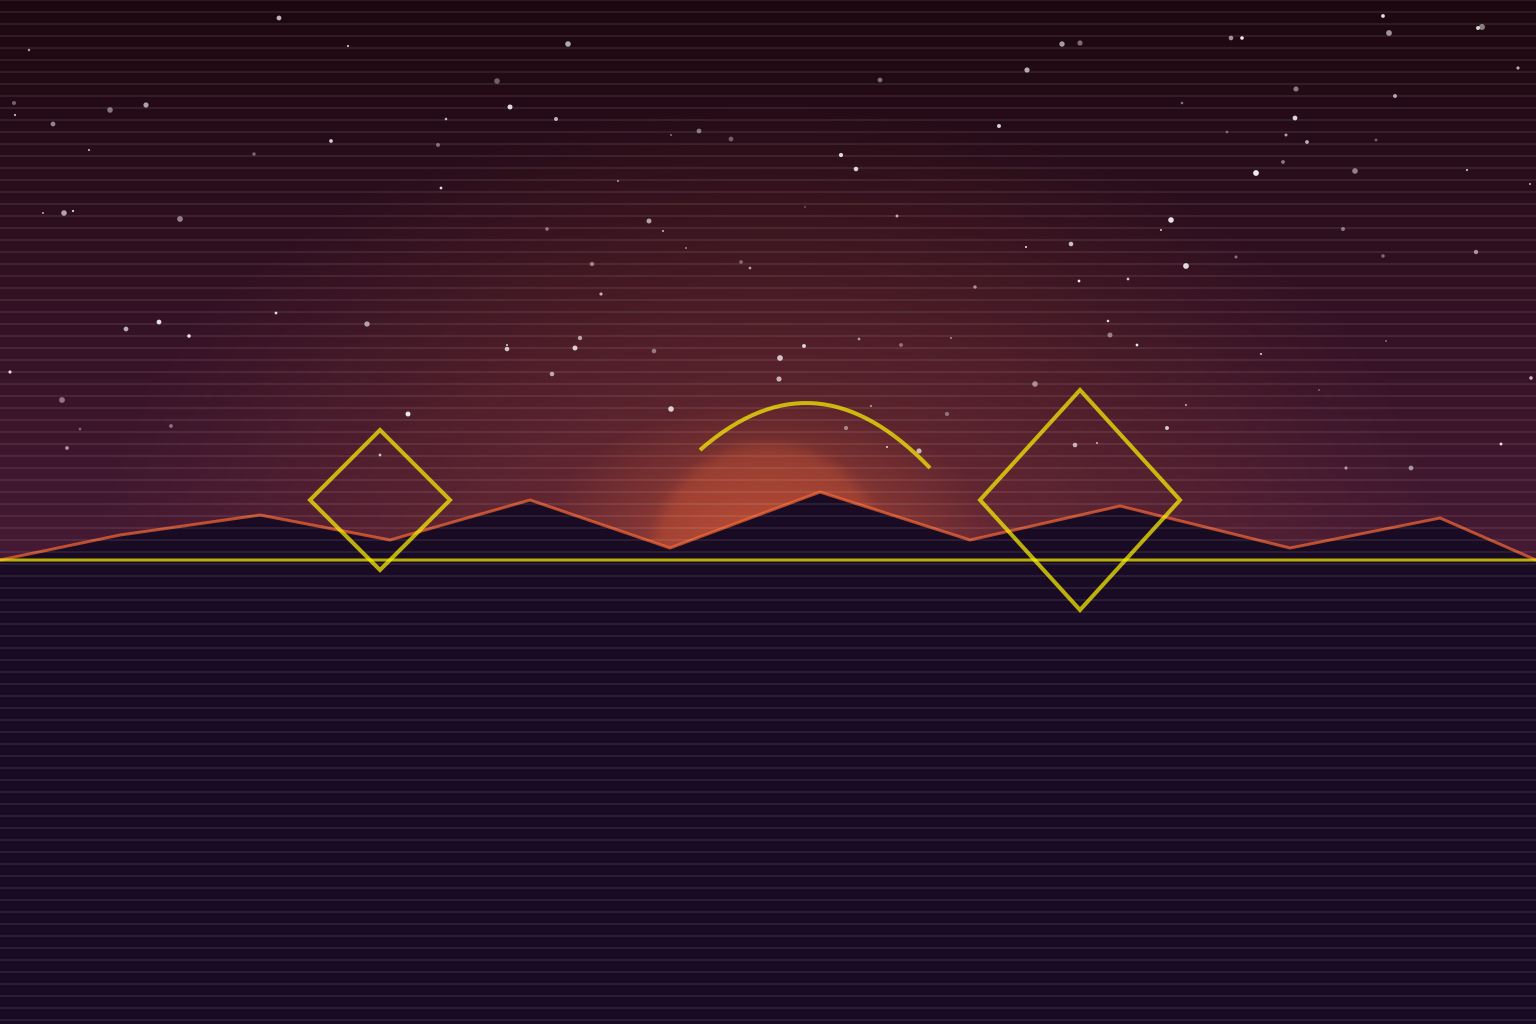
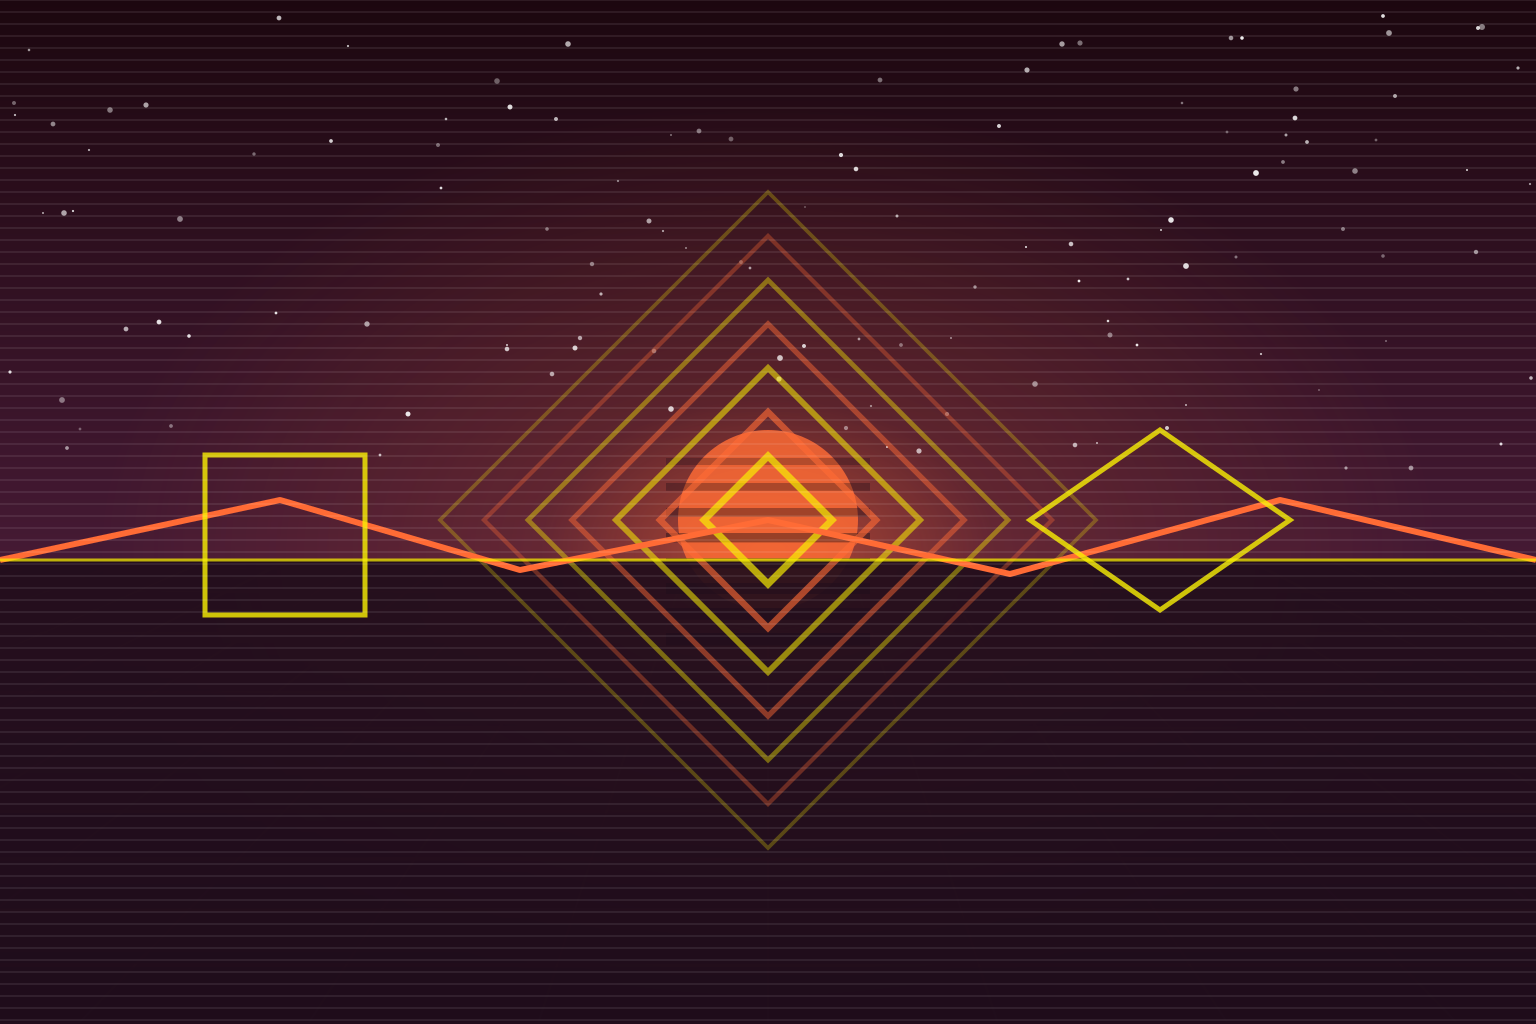
Polish world and puzzle object art

Changed region(s): [[0.0, 0.1875, 1.0, 0.8125], [0.6875, 0.375, 0.7188, 0.4062]]

diff --git a/scripts/generate-polish-assets.js b/scripts/generate-polish-assets.js
@@ -42,6 +42,17 @@ function gridLines(color = '#ff2a6d') {
   return `${horizontal}\n${vertical}`;
 }
 
+function sunDisc(color, cx = 768, cy = 524, radius = 132, stripe = '#070412') {
+  const cuts = Array.from({ length: 8 }, (_, i) => {
+    const y = cy - radius + 28 + i * 25;
+    return `<rect x="${cx - radius - 12}" y="${y}" width="${radius * 2 + 24}" height="${7 + i * 0.8}" fill="${stripe}" opacity="${0.24 + i * 0.045}"/>`;
+  }).join('\n');
+  return `
+    <circle cx="${cx}" cy="${cy}" r="${radius}" fill="${color}" opacity="0.82"/>
+    ${cuts}
+  `;
+}
+
 function mountainLayer(points, color, opacity = 1, stroke = '#ff2a6d') {
   return `
     <polygon points="0,560 ${points} 1536,560 1536,1024 0,1024" fill="${color}" opacity="${opacity}"/>
@@ -64,6 +75,89 @@ function buildings(color, accent) {
   }).join('\n');
 }
 
+function dunes(fill, stroke) {
+  return `
+    <path d="M0 560C150 505 300 505 450 560S755 614 930 545S1270 498 1536 560V1024H0Z" fill="${fill}" opacity="0.9"/>
+    <path d="M0 584C190 540 360 536 520 592S850 642 1065 574S1360 534 1536 604" fill="none" stroke="${stroke}" stroke-width="4" stroke-opacity="0.75"/>
+    <path d="M0 650C230 600 430 612 610 668S1020 700 1536 622" fill="none" stroke="#05d9e8" stroke-width="3" stroke-opacity="0.42"/>
+  `;
+}
+
+function canyonSpans(fill, stroke) {
+  return `
+    <path d="M0 560H1536V1024H0Z" fill="${fill}" opacity="0.86"/>
+    <g fill="#08101f" stroke="${stroke}" stroke-width="5" stroke-linejoin="round">
+      <path d="M40 560L170 356L290 560Z"/>
+      <path d="M1250 560L1370 330L1492 560Z"/>
+      <path d="M470 560L585 408L690 560Z" opacity="0.78"/>
+      <path d="M840 560L990 380L1120 560Z" opacity="0.86"/>
+    </g>
+    <path d="M0 560H1536" stroke="${stroke}" stroke-width="5" stroke-opacity="0.85"/>
+  `;
+}
+
+function prismFortress(fill, stroke, accent) {
+  return `
+    <path d="M0 560H1536V1024H0Z" fill="${fill}" opacity="0.9"/>
+    <g fill="#17112f" stroke="${stroke}" stroke-width="5">
+      <polygon points="178,560 300,420 422,560"/>
+      <polygon points="1110,560 1222,392 1340,560"/>
+      <rect x="560" y="438" width="118" height="122"/>
+      <rect x="690" y="384" width="158" height="176"/>
+      <rect x="862" y="452" width="118" height="108"/>
+    </g>
+    <g stroke="${accent}" stroke-width="4" opacity="0.72">
+      <path d="M300 420L300 560M1222 392L1222 560M690 438H848M730 384V560M810 384V560"/>
+    </g>
+  `;
+}
+
+function vectorVortex(fill, stroke, accent) {
+  const rings = Array.from({ length: 7 }, (_, i) => {
+    const r = 64 + i * 44;
+    return `<polygon points="${768},${520 - r} ${768 + r},520 ${768},${520 + r} ${768 - r},520" fill="none" stroke="${i % 2 ? stroke : accent}" stroke-width="${7 - i * 0.55}" opacity="${0.68 - i * 0.07}"/>`;
+  }).join('\n');
+  return `
+    <path d="M0 560H1536V1024H0Z" fill="${fill}" opacity="0.92"/>
+    <g>${rings}</g>
+    <path d="M0 560L280 500L520 570L768 520L1010 574L1280 500L1536 560" fill="none" stroke="${stroke}" stroke-width="6" stroke-linejoin="round"/>
+    <g fill="none" stroke="${accent}" stroke-width="5" opacity="0.8">
+      <path d="M205 455H365V615H205Z"/>
+      <path d="M1160 430L1290 520L1160 610L1030 520Z"/>
+    </g>
+  `;
+}
+
+function pixelWastes(fill, stroke, accent) {
+  const blocks = Array.from({ length: 52 }, (_, i) => {
+    const x = 32 + (i * 137) % 1460;
+    const y = 386 + (i * 61) % 174;
+    const s = 16 + (i % 5) * 10;
+    return `<rect x="${x}" y="${y}" width="${s}" height="${s}" fill="${i % 2 ? stroke : accent}" opacity="${0.34 + (i % 3) * 0.12}"/>`;
+  }).join('\n');
+  return `
+    <path d="M0 560H1536V1024H0Z" fill="${fill}" opacity="0.92"/>
+    <path d="M0 560H180V528H330V560H520V512H690V560H850V536H1030V560H1220V504H1400V560H1536" fill="#111928" stroke="${stroke}" stroke-width="5"/>
+    <g>${blocks}</g>
+    <path d="M0 626H1536" stroke="${accent}" stroke-width="4" stroke-dasharray="20 22" stroke-opacity="0.65"/>
+  `;
+}
+
+function midnightCitadel(fill, stroke, accent) {
+  return `
+    <path d="M0 560H1536V1024H0Z" fill="${fill}" opacity="0.94"/>
+    <g fill="#080914" stroke="${stroke}" stroke-width="5">
+      <path d="M600 560V410H655V350H710V280H768V214H826V280H884V350H938V410H994V560Z"/>
+      <path d="M318 560V465H366V410H430V560Z" opacity="0.82"/>
+      <path d="M1108 560V430H1172V360H1242V560Z" opacity="0.82"/>
+    </g>
+    <g stroke="${accent}" stroke-width="4" opacity="0.74">
+      <path d="M710 350H826M655 410H938M768 214V560M600 500H994"/>
+      <path d="M730 462H806V560H730Z" fill="#050711"/>
+    </g>
+  `;
+}
+
 const worlds = [
   {
     id: 1,
@@ -74,7 +168,10 @@ const worlds = [
     horizon: '#ff7a3d',
     grid: '#ff2a6d',
     accent: '#05d9e8',
-    motif: mountainLayer('120,500 230,536 360,486 510,548 670,505 790,555 930,492 1090,540 1260,503 1420,548', '#170728', 1, '#ff2a6d')
+    motif: `
+      ${sunDisc('#ff7a3d', 768, 510, 126)}
+      ${mountainLayer('90,510 225,545 360,488 520,550 680,506 800,558 945,492 1110,542 1268,506 1438,550', '#170728', 1, '#ff2a6d')}
+      ${dunes('#221036', '#ff7a3d')}`
   },
   {
     id: 2,
@@ -85,7 +182,10 @@ const worlds = [
     horizon: '#05d9e8',
     grid: '#05d9e8',
     accent: '#d300c5',
-    motif: buildings('#0b1b31', '#05d9e8')
+    motif: `
+      ${sunDisc('#05d9e8', 1120, 514, 92)}
+      ${buildings('#08182c', '#05d9e8')}
+      ${canyonSpans('#09172a', '#05d9e8')}`
   },
   {
     id: 3,
@@ -97,12 +197,8 @@ const worlds = [
     grid: '#d300c5',
     accent: '#ff6b35',
     motif: `
-      ${mountainLayer('110,510 220,470 350,530 470,455 610,535 760,462 930,530 1080,470 1260,536 1420,480', '#180a2f', 1, '#d300c5')}
-      <g opacity="0.78" stroke="#ff6b35" stroke-width="4" fill="#201339">
-        <path d="M250 558V500H380V558"/>
-        <path d="M980 558V482H1140V558"/>
-        <path d="M600 558V515H760V558"/>
-      </g>`
+      ${sunDisc('#d300c5', 392, 510, 98)}
+      ${prismFortress('#160b2a', '#d300c5', '#ff6b35')}`
   },
   {
     id: 4,
@@ -114,12 +210,8 @@ const worlds = [
     grid: '#ff6b35',
     accent: '#f9f002',
     motif: `
-      ${mountainLayer('120,535 260,515 390,540 530,500 670,548 820,492 970,540 1120,506 1290,548 1440,518', '#190b23', 1, '#ff6b35')}
-      <g fill="none" stroke="#f9f002" stroke-width="4" opacity="0.72">
-        <polygon points="380,430 450,500 380,570 310,500"/>
-        <polygon points="1080,390 1180,500 1080,610 980,500"/>
-        <path d="M700 450C780 380 855 390 930 468"/>
-      </g>`
+      ${sunDisc('#ff6b35', 768, 520, 90)}
+      ${vectorVortex('#210d1b', '#ff6b35', '#f9f002')}`
   },
   {
     id: 5,
@@ -131,10 +223,8 @@ const worlds = [
     grid: '#f9f002',
     accent: '#05d9e8',
     motif: `
-      ${mountainLayer('80,532 190,508 300,544 410,500 520,548 650,510 760,552 900,505 1040,548 1160,512 1300,550 1460,518', '#101926', 1, '#f9f002')}
-      <g opacity="0.65">
-        ${Array.from({ length: 38 }, (_, i) => `<rect x="${80 + (i * 37) % 1380}" y="${380 + (i * 53) % 160}" width="${12 + (i % 4) * 8}" height="${8 + (i % 3) * 9}" fill="${i % 2 ? '#05d9e8' : '#f9f002'}" opacity="0.45"/>`).join('')}
-      </g>`
+      ${sunDisc('#f9f002', 292, 516, 78)}
+      ${pixelWastes('#0d1821', '#f9f002', '#05d9e8')}`
   },
   {
     id: 6,
@@ -146,12 +236,8 @@ const worlds = [
     grid: '#ff2a6d',
     accent: '#05d9e8',
     motif: `
-      ${mountainLayer('90,532 220,505 350,546 470,498 600,550 735,470 870,550 1010,498 1140,548 1280,510 1430,538', '#070817', 1, '#ff2a6d')}
-      <g stroke="#05d9e8" stroke-width="4" fill="#0d1026" opacity="0.86">
-        <path d="M650 560V385H710V330H762V265H814V330H866V385H926V560Z"/>
-        <path d="M548 560V455H626V560"/>
-        <path d="M950 560V455H1028V560"/>
-      </g>`
+      ${sunDisc('#ff2a6d', 768, 500, 118)}
+      ${midnightCitadel('#050713', '#ff2a6d', '#05d9e8')}`
   }
 ];
 
@@ -174,8 +260,7 @@ function worldSvg(world) {
     <rect width="1536" height="1024" fill="url(#sky)"/>
     <rect width="1536" height="1024" fill="url(#glow)"/>
     ${stars(900 + world.id * 113)}
-    <circle cx="768" cy="560" r="116" fill="${world.horizon}" opacity="0.2" filter="url(#softGlow)"/>
-    <g opacity="0.32">${gridLines(world.grid)}</g>
+    <g opacity="0.24">${gridLines(world.grid)}</g>
     ${world.motif}
     <line x1="0" y1="560" x2="1536" y2="560" stroke="${world.accent}" stroke-width="3" stroke-opacity="0.72"/>
     <g opacity="0.16" stroke="#ffffff" stroke-width="1">
@@ -187,12 +272,10 @@ function worldSvg(world) {
 const puzzleSvgs = {
   'shield-generator.png': `
     <svg xmlns="http://www.w3.org/2000/svg" width="160" height="160" viewBox="0 0 160 160">
-      <defs><filter id="g"><feGaussianBlur stdDeviation="3"/></filter></defs>
-      <circle cx="80" cy="80" r="58" fill="none" stroke="#05d9e8" stroke-width="5" opacity="0.3"/>
-      <circle cx="80" cy="80" r="46" fill="none" stroke="#05d9e8" stroke-width="4"/>
-      <path d="M52 92L80 36L108 92L80 124Z" fill="#11182d" stroke="#05d9e8" stroke-width="5" stroke-linejoin="round"/>
-      <path d="M80 48V112M62 87H98" stroke="#ff2a6d" stroke-width="6" stroke-linecap="round"/>
-      <circle cx="80" cy="80" r="18" fill="#05d9e8" opacity="0.28" filter="url(#g)"/>
+      <circle cx="80" cy="80" r="61" fill="#0b1630" stroke="#05d9e8" stroke-width="6"/>
+      <path d="M80 28L123 55V105L80 132L37 105V55Z" fill="#121d3d" stroke="#05d9e8" stroke-width="5" stroke-linejoin="round"/>
+      <path d="M80 42L109 61V99L80 118L51 99V61Z" fill="#1a1240" stroke="#ff2a6d" stroke-width="5" stroke-linejoin="round"/>
+      <path d="M80 51V109M57 80H103" stroke="#f9f002" stroke-width="7" stroke-linecap="round"/>
     </svg>`,
   'ricochet-panel.png': `
     <svg xmlns="http://www.w3.org/2000/svg" width="192" height="112" viewBox="0 0 192 112">
@@ -203,19 +286,18 @@ const puzzleSvgs = {
     </svg>`,
   'teleport-gate.png': `
     <svg xmlns="http://www.w3.org/2000/svg" width="160" height="176" viewBox="0 0 160 176">
-      <defs><filter id="g"><feGaussianBlur stdDeviation="4"/></filter></defs>
-      <ellipse cx="80" cy="88" rx="46" ry="62" fill="#110b2a" stroke="#d300c5" stroke-width="7"/>
-      <ellipse cx="80" cy="88" rx="27" ry="40" fill="none" stroke="#05d9e8" stroke-width="5"/>
-      <path d="M80 24V6M80 170V152M30 88H8M152 88H130" stroke="#ff2a6d" stroke-width="6" stroke-linecap="round"/>
-      <path d="M56 62C78 42 104 58 98 84C92 112 60 104 64 82" fill="none" stroke="#f9f002" stroke-width="5" stroke-linecap="round"/>
-      <ellipse cx="80" cy="88" rx="58" ry="74" fill="none" stroke="#d300c5" stroke-width="4" opacity="0.25" filter="url(#g)"/>
+      <path d="M80 10L136 44V132L80 166L24 132V44Z" fill="#100b2b" stroke="#d300c5" stroke-width="7" stroke-linejoin="round"/>
+      <path d="M80 34L112 55V121L80 142L48 121V55Z" fill="#071226" stroke="#05d9e8" stroke-width="6" stroke-linejoin="round"/>
+      <path d="M58 72C74 52 105 63 101 88C97 113 65 118 58 96" fill="none" stroke="#f9f002" stroke-width="7" stroke-linecap="round"/>
+      <path d="M101 69L102 92L123 81M58 107L58 84L37 95" fill="none" stroke="#ff2a6d" stroke-width="6" stroke-linecap="round" stroke-linejoin="round"/>
     </svg>`,
   'hardlight-bunker.png': `
     <svg xmlns="http://www.w3.org/2000/svg" width="224" height="112" viewBox="0 0 224 112">
-      <path d="M18 88V52L54 24H170L206 52V88Z" fill="#12182e" stroke="#ff6b35" stroke-width="6" stroke-linejoin="round"/>
-      <path d="M54 24L72 52H152L170 24M18 52H206M42 88V62M78 88V62M114 88V62M150 88V62M186 88V62" stroke="#05d9e8" stroke-width="4" opacity="0.72"/>
-      <path d="M84 45H140" stroke="#f9f002" stroke-width="7" stroke-linecap="round"/>
-      <rect x="34" y="88" width="156" height="12" fill="#05d9e8" opacity="0.32"/>
+      <rect x="16" y="30" width="192" height="66" rx="0" fill="#12182e" stroke="#ff6b35" stroke-width="7"/>
+      <rect x="32" y="45" width="160" height="35" fill="#172744" stroke="#05d9e8" stroke-width="5"/>
+      <path d="M48 80V48M80 80V48M112 80V48M144 80V48M176 80V48" stroke="#05d9e8" stroke-width="4" opacity="0.82"/>
+      <path d="M78 61H146" stroke="#f9f002" stroke-width="8" stroke-linecap="round"/>
+      <rect x="24" y="92" width="176" height="10" fill="#05d9e8" opacity="0.38"/>
     </svg>`
 };
 

diff --git a/js/puzzleObjects.js b/js/puzzleObjects.js
@@ -328,7 +328,24 @@ function renderShield(ctx, object, pulse, sprite = null) {
     ctx.fill();
     ctx.stroke();
 
-    drawSpriteCentered(ctx, sprite, object.x, object.y, object.radius * 2.05, object.radius * 1.92);
+    if (drawSpriteCentered(ctx, sprite, object.x, object.y, object.radius * 1.35, object.radius * 1.35)) {
+        ctx.restore();
+        return;
+    }
+
+    ctx.strokeStyle = COLORS.NEON_PINK;
+    ctx.lineWidth = 3;
+    ctx.shadowBlur = 8;
+    ctx.beginPath();
+    for (let i = 0; i < 6; i++) {
+        const angle = -Math.PI / 2 + i * Math.PI / 3;
+        const x = object.x + Math.cos(angle) * object.radius * 0.45;
+        const y = object.y + Math.sin(angle) * object.radius * 0.45;
+        if (i === 0) ctx.moveTo(x, y);
+        else ctx.lineTo(x, y);
+    }
+    ctx.closePath();
+    ctx.stroke();
     ctx.restore();
 }
 
@@ -360,6 +377,25 @@ function renderRicochet(ctx, object, pulse, sprite = null) {
 
 function renderTeleport(ctx, object, pulse, sprite = null) {
     ctx.save();
+    if (drawSpriteCentered(ctx, sprite, object.x, object.y, object.radius * 1.72, object.radius * 1.9)) {
+        ctx.shadowColor = COLORS.NEON_PURPLE;
+        ctx.shadowBlur = 10 + pulse * 12;
+        ctx.strokeStyle = `rgba(211, 0, 197, ${0.28 + pulse * 0.14})`;
+        ctx.lineWidth = 3;
+        ctx.beginPath();
+        for (let i = 0; i < 6; i++) {
+            const angle = -Math.PI / 2 + i * Math.PI / 3;
+            const x = object.x + Math.cos(angle) * object.radius * 0.98;
+            const y = object.y + Math.sin(angle) * object.radius * 1.1;
+            if (i === 0) ctx.moveTo(x, y);
+            else ctx.lineTo(x, y);
+        }
+        ctx.closePath();
+        ctx.stroke();
+        ctx.restore();
+        return;
+    }
+
     ctx.strokeStyle = COLORS.NEON_PURPLE;
     ctx.shadowColor = COLORS.NEON_PURPLE;
     ctx.shadowBlur = 16 + pulse * 18;
@@ -373,7 +409,6 @@ function renderTeleport(ctx, object, pulse, sprite = null) {
     ctx.arc(object.x, object.y, object.radius * (0.45 + pulse * 0.18), 0, Math.PI * 2);
     ctx.stroke();
 
-    drawSpriteCentered(ctx, sprite, object.x, object.y, object.radius * 2.35, object.radius * 2.7);
     ctx.restore();
 }
 

diff --git a/progress.md b/progress.md
@@ -138,3 +138,6 @@ Original prompt: Upgrade game graphical assets with ChatGPT Image Gen 2 and impr
 - Added App Store icon and launch-image PNG dimension validation to `npm run ios:check` and `npm run release:handoff`.
 - Refreshed `docs/branch-map.md` and `docs/launch-completion-audit.md` to audited handoff head `95fcfad`, now 64 commits ahead of `main`.
 - Tightened App Store screenshot handoff verification so each summary screenshot path must exist and the actual PNG dimensions must match the required device slot.
+- Follow-up visual correction after the latest screenshot review: regenerated the six campaign world backgrounds with stronger world-specific silhouettes/color identities, replaced the shield generator/teleport gate/hardlight bunker art with flatter 2D orthographic synthwave pieces, and adjusted sprite-backed puzzle-object rendering so teleporter/shield objects no longer stack inconsistent procedural geometry over the PNG art.
+- Verified the refreshed battlefield art with `npm run audit:worlds`, which produced `artifacts/world-visual-audit/2026-05-10T03-39-47-666Z/summary.json` and adjacent world image distances of W1-W2 16.06, W2-W3 16.78, W3-W4 15.46, W4-W5 14.65, and W5-W6 15.14.
+- Retried Computer Use against Chrome; macOS still blocks it with `Apple event error -10000: Sender process is not authenticated`, so live visual verification used the repo Playwright/world-audit path instead.
